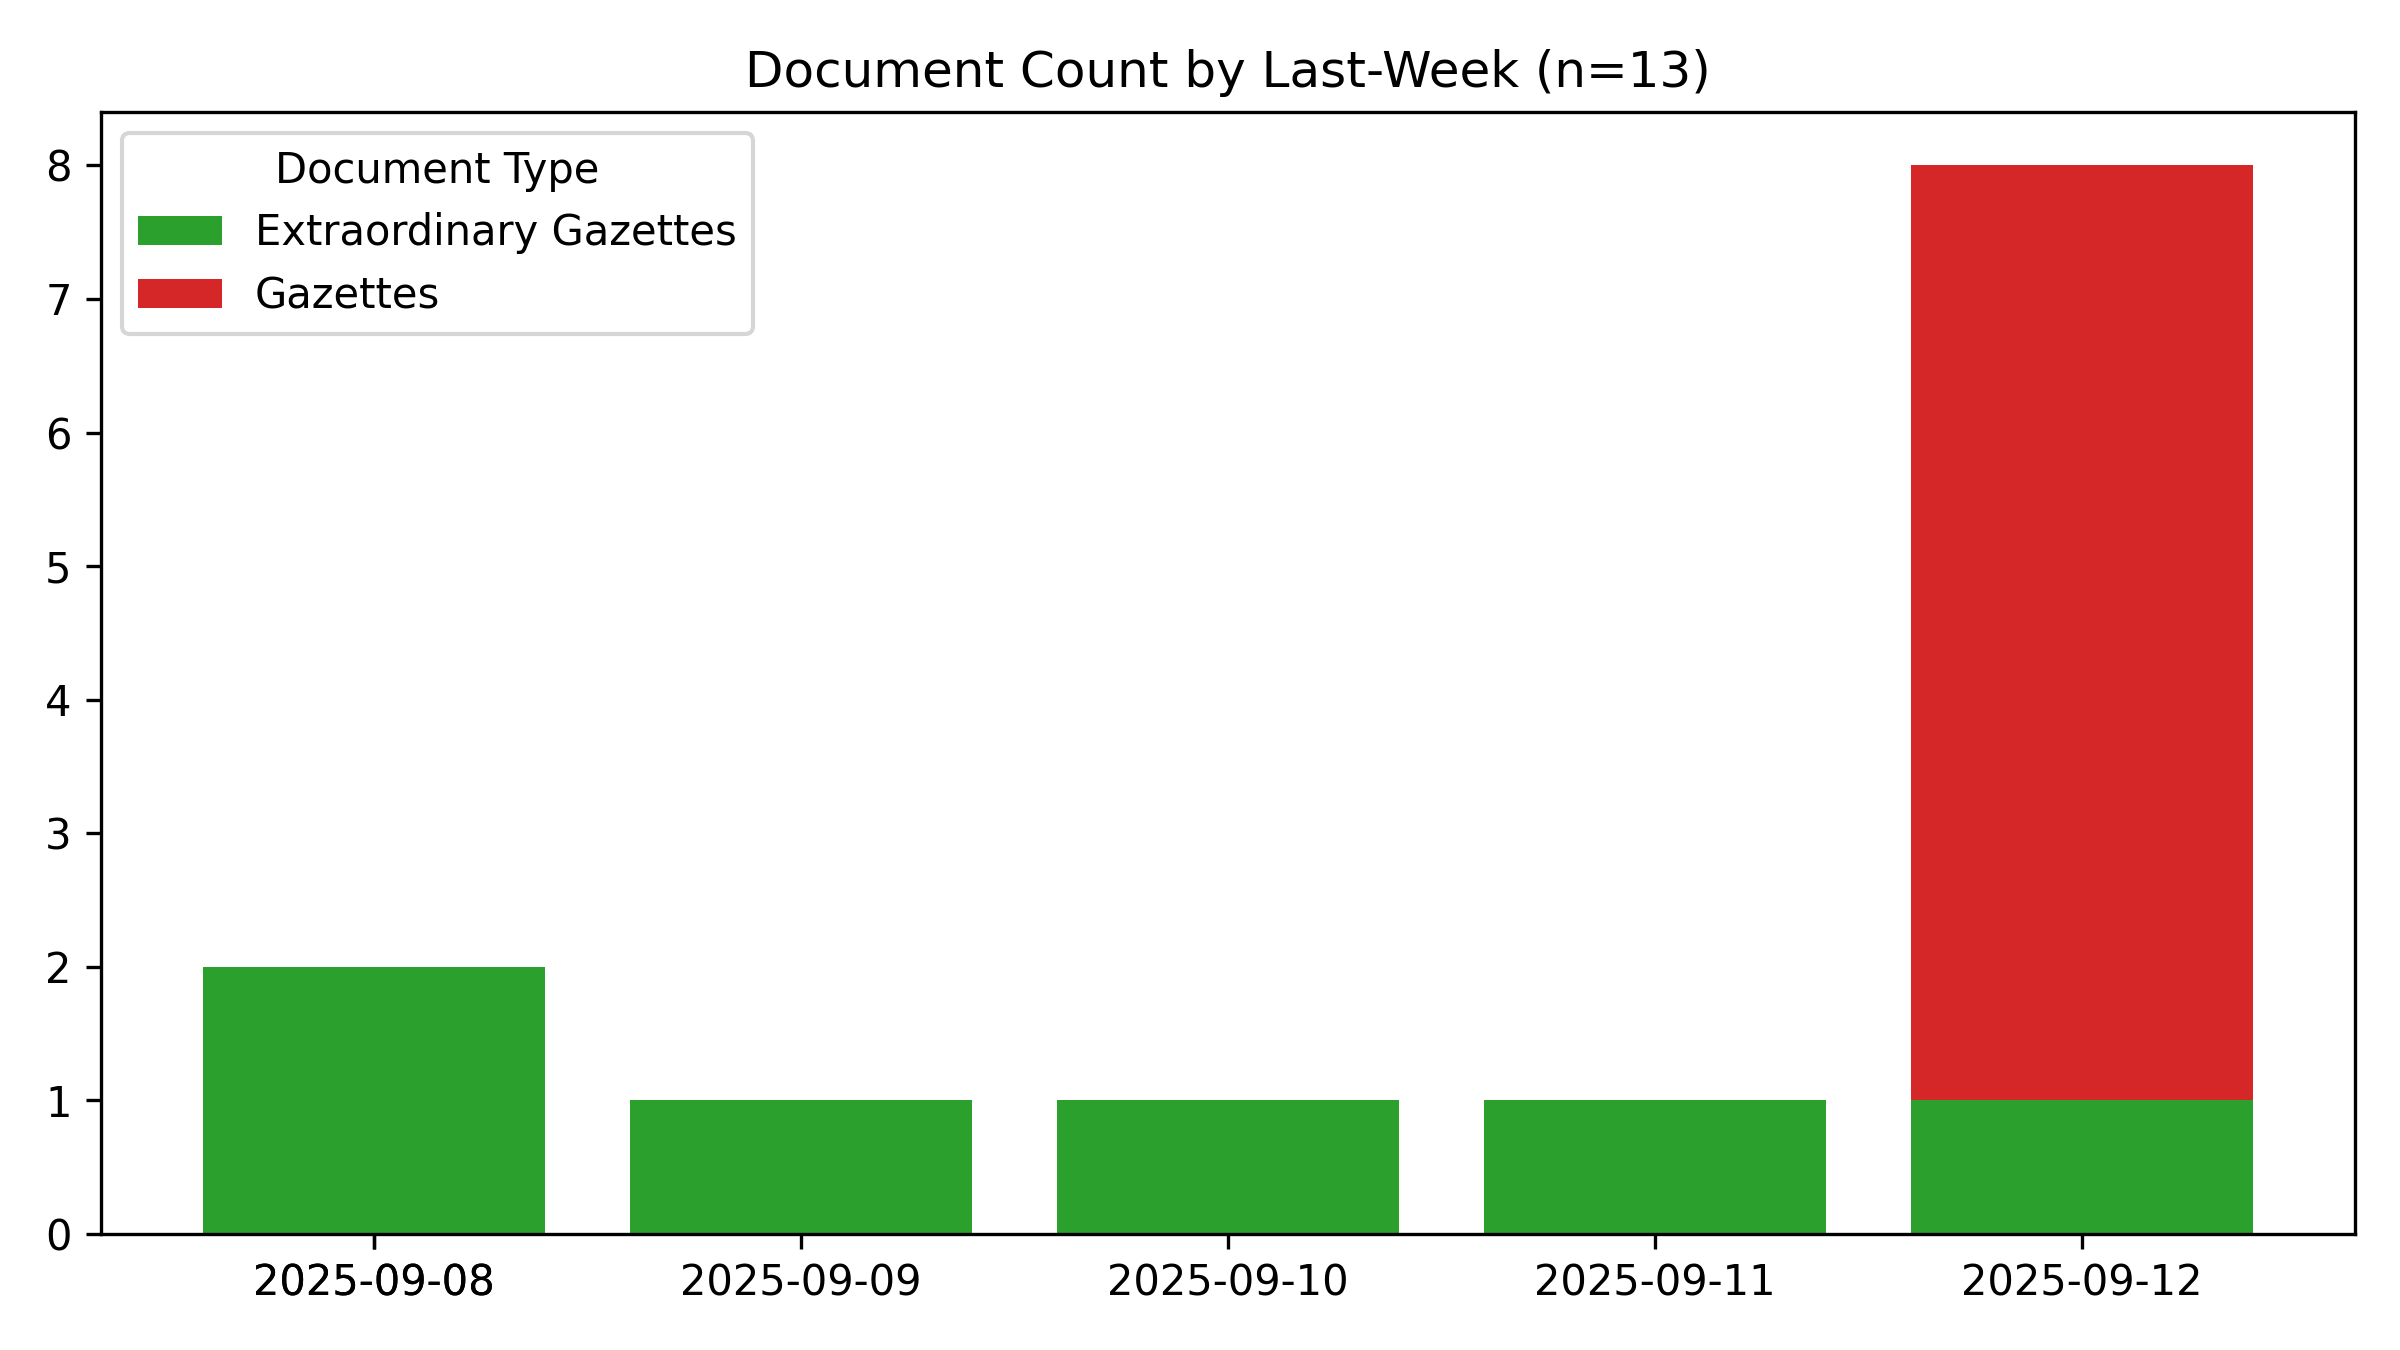
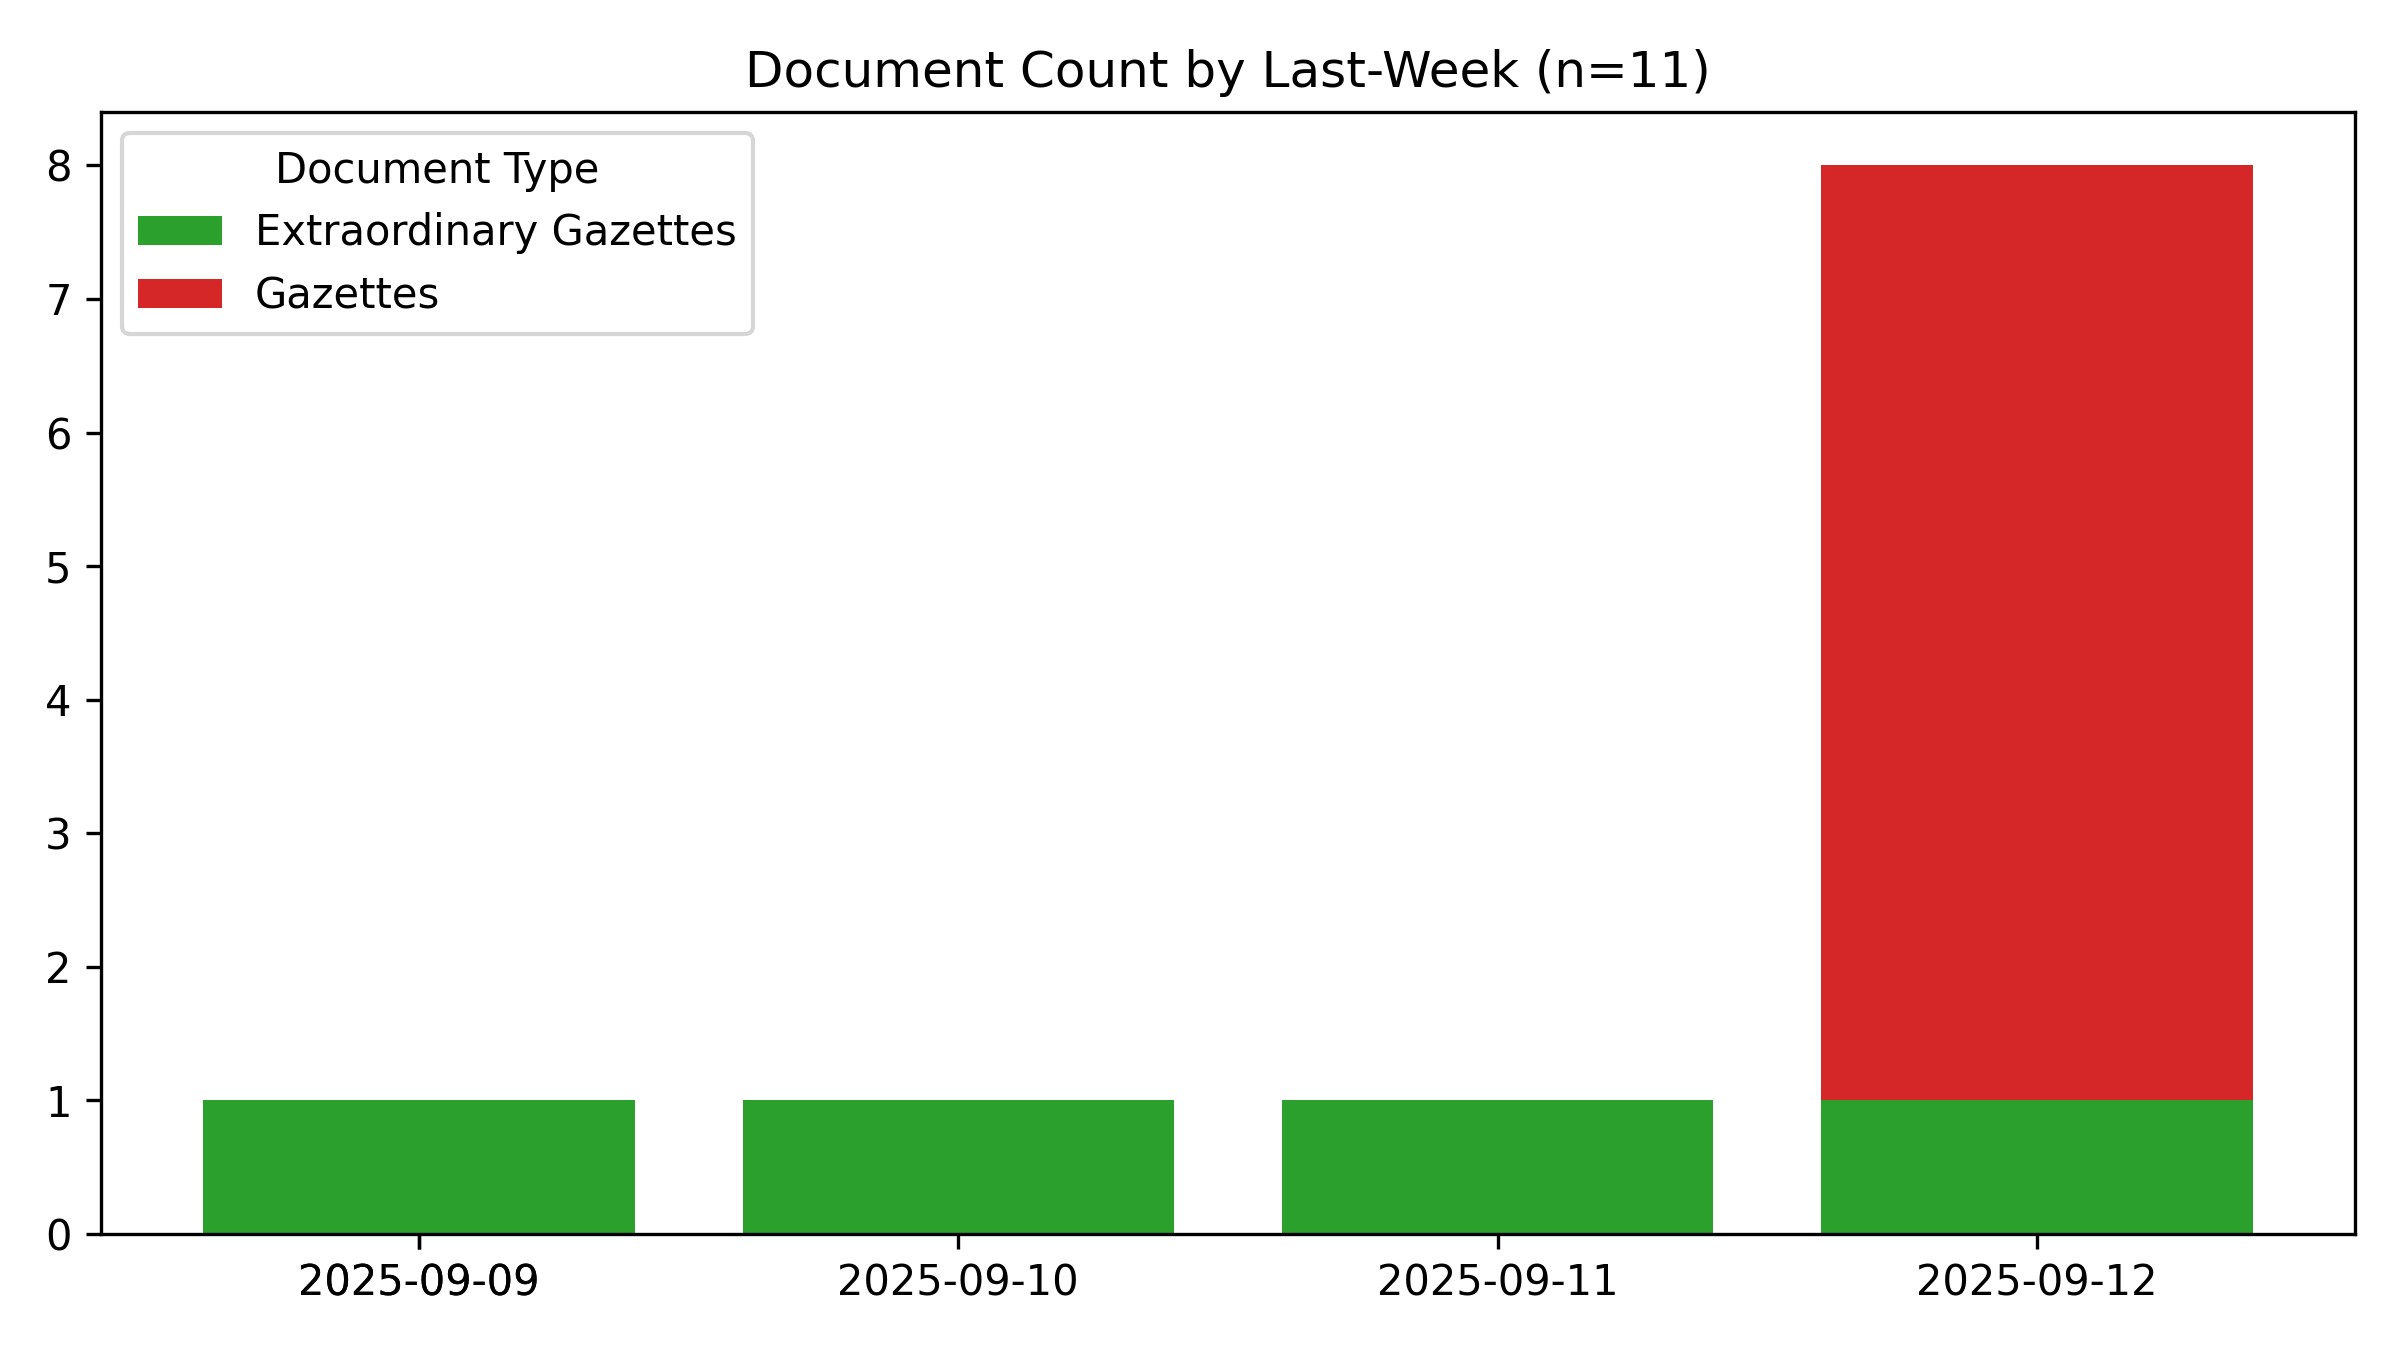
🤖 [build_readme.yml] 2025-09-16-0014

Changed region(s): [[0.0625, 0.1244, 0.9062, 0.9644], [0.0938, 0.9333, 0.2188, 0.9644], [0.6875, 0.0311, 0.7188, 0.0622]]

diff --git a/README.md b/README.md
@@ -1,6 +1,6 @@
 # #SriLanka 🇱🇰 - Legal Documents #Dataset
 
-*Last Updated **2025-09-16 05:13:00**.*
+*Last Updated **2025-09-16 05:44:41**.*
 
 **44,630** documents (24.4 MB), from 1981-01-22 to 2025-09-12.
 
@@ -54,7 +54,7 @@ For best results, use a desktop browser.
 
 ## Recent Documents (Published during the last 7 days)
 
-**13** Documents
+**11** Documents
 
 - 🚨 [2025-09-12] [Office of the Public Service Commission - Service Minute of the Sri Lanka Education Administrative Service 6th Amenmdent](https://github.com/nuuuwan/lk_legal_docs_data/tree/data_2020s/data/extra-gazettes/2025/2453-34)
 - 📢 [2025-09-12] [Legal Section](https://github.com/nuuuwan/lk_legal_docs_data/tree/data_2020s/data/gazettes/2025/2025-09-12-legal-section)
@@ -67,5 +67,3 @@ For best results, use a desktop browser.
 - 🚨 [2025-09-11] [2453/24](https://github.com/nuuuwan/lk_legal_docs_data/tree/data_2020s/data/extra-gazettes/2025/2453-24)
 - 🚨 [2025-09-10] [2453/22](https://github.com/nuuuwan/lk_legal_docs_data/tree/data_2020s/data/extra-gazettes/2025/2453-22)
 - 🚨 [2025-09-09] [Public Utilities Commission of Sri Lanka - Revised Expenditure Budget - 2025](https://github.com/nuuuwan/lk_legal_docs_data/tree/data_2020s/data/extra-gazettes/2025/2453-16)
-- 🚨 [2025-09-08] [Election Commission - L. A. E. O. Notice Under Section 66A (1) Filling of a Vacancy in the office of members of the Akkaraipattu M/C](https://github.com/nuuuwan/lk_legal_docs_data/tree/data_2020s/data/extra-gazettes/2025/2453-14)
-- 🚨 [2025-09-08] [Sri Lanka Customs - Rates of Exchange with effect from 08.09.2025 to 14.09.2025](https://github.com/nuuuwan/lk_legal_docs_data/tree/data_2020s/data/extra-gazettes/2025/2453-01)
